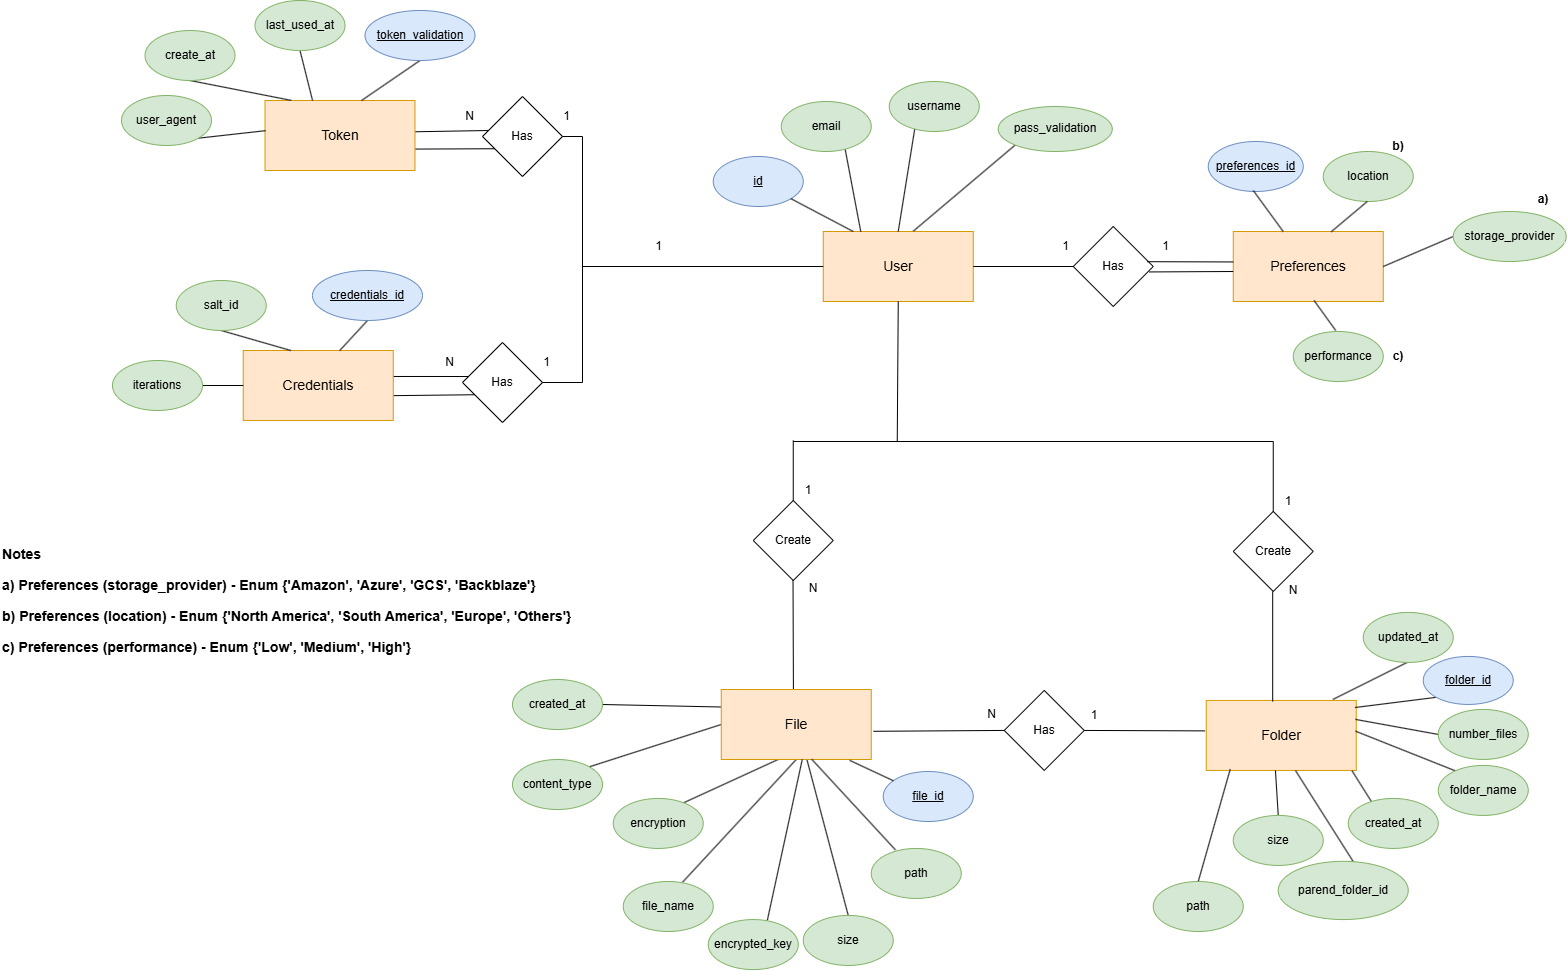
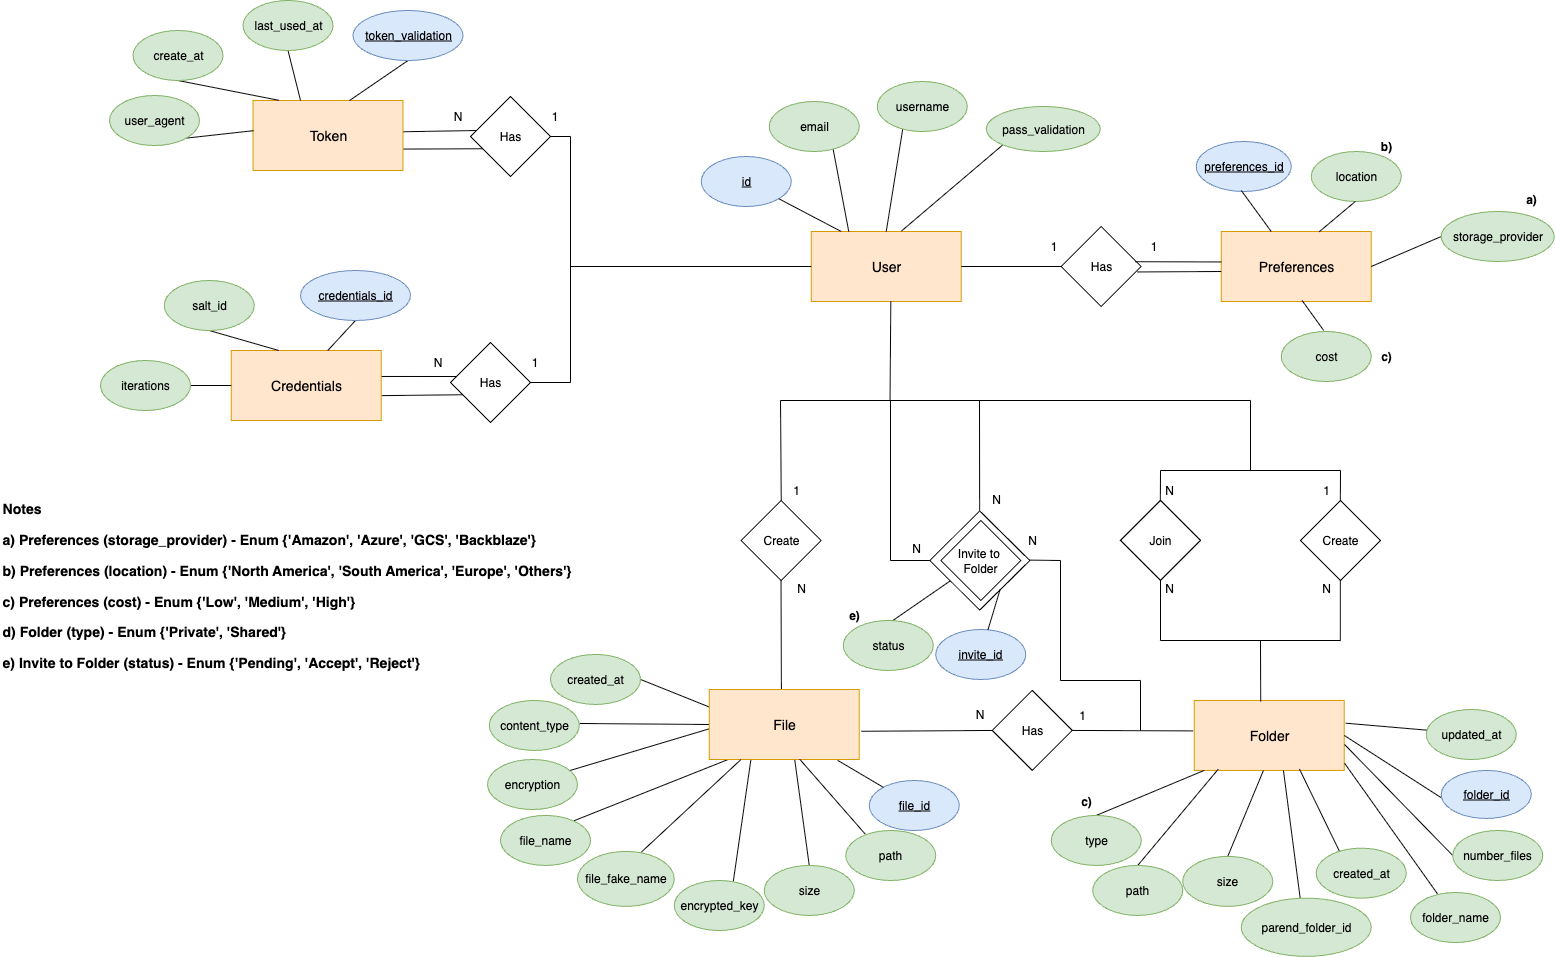
feat: enhance validation for ID parameters and update documentation

diff --git a/code/backend/multicloud-guardian/http/src/main/kotlin/pt/isel/leic/multicloudguardian/http/controllers/FoldersController.kt b/code/backend/multicloud-guardian/http/src/main/kotlin/pt/isel/leic/multicloudguardian/http/controllers/FoldersController.kt
@@ -1,5 +1,6 @@
 package pt.isel.leic.multicloudguardian.http.controllers
 
+import jakarta.validation.constraints.Min
 import org.springframework.http.HttpStatus
 import org.springframework.http.ResponseEntity
 import org.springframework.validation.annotation.Validated
@@ -49,6 +50,7 @@ import pt.isel.leic.multicloudguardian.service.storage.UploadFileError
 import pt.isel.leic.multicloudguardian.service.storage.ValidateFolderInviteError
 
 @RestController
+@Validated
 class FoldersController(
     private val storageService: StorageService,
 ) {
@@ -117,7 +119,7 @@ class FoldersController(
     @PostMapping(Uris.Folders.CREATE_FOLDER_IN_FOLDER)
     fun createFolderInFolder(
         @Validated @RequestBody input: FolderCreateInputModel,
-        @PathVariable folderId: Int,
+        @PathVariable @Min(1, message = Uris.ValidationMessages.ID_MUST_BE_POSITIVE) folderId: Int,
         authenticatedUser: AuthenticatedUser,
     ): ResponseEntity<*> {
         val instance = Uris.Folders.createFolderInFolder(folderId)
@@ -156,7 +158,7 @@ class FoldersController(
 
     @GetMapping(Uris.Folders.GET_FOLDER_BY_ID)
     fun getFolder(
-        @PathVariable @Validated folderId: Int,
+        @PathVariable @Min(1, message = Uris.ValidationMessages.ID_MUST_BE_POSITIVE) folderId: Int,
         authenticatedUser: AuthenticatedUser,
     ): ResponseEntity<*> {
         val instance = Uris.Folders.folderById(folderId)
@@ -176,7 +178,7 @@ class FoldersController(
 
     @GetMapping(Uris.Folders.GET_FOLDERS_IN_FOLDER)
     fun getFoldersInFolder(
-        @PathVariable @Validated folderId: Int,
+        @PathVariable @Min(1, message = Uris.ValidationMessages.ID_MUST_BE_POSITIVE) folderId: Int,
         authenticatedUser: AuthenticatedUser,
         @RequestParam(required = false) size: Int?,
         @RequestParam(required = false) page: Int?,
@@ -213,7 +215,7 @@ class FoldersController(
 
     @GetMapping(Uris.Folders.GET_FILES_IN_FOLDER)
     fun getFilesInFolder(
-        @PathVariable @Validated folderId: Int,
+        @PathVariable @Min(1, message = Uris.ValidationMessages.ID_MUST_BE_POSITIVE) folderId: Int,
         authenticatedUser: AuthenticatedUser,
         @RequestParam(required = false) size: Int?,
         @RequestParam(required = false) page: Int?,
@@ -251,8 +253,8 @@ class FoldersController(
 
     @GetMapping(Uris.Folders.GET_FILE_IN_FOLDER)
     fun getFileInFolder(
-        @PathVariable @Validated folderId: Int,
-        @PathVariable @Validated fileId: Int,
+        @PathVariable @Min(1, message = Uris.ValidationMessages.ID_MUST_BE_POSITIVE) folderId: Int,
+        @PathVariable @Min(1, message = Uris.ValidationMessages.ID_MUST_BE_POSITIVE) fileId: Int,
         authenticatedUser: AuthenticatedUser,
     ): ResponseEntity<*> {
         val instance = Uris.Folders.fileInFolder(folderId, fileId)
@@ -333,8 +335,8 @@ class FoldersController(
 
     @GetMapping(Uris.Folders.DOWNLOAD_FILE_IN_FOLDER)
     fun downloadFileInFolder(
-        @Validated @PathVariable folderId: Int,
-        @Validated @PathVariable fileId: Int,
+        @PathVariable @Min(1, message = Uris.ValidationMessages.ID_MUST_BE_POSITIVE) folderId: Int,
+        @PathVariable @Min(1, message = Uris.ValidationMessages.ID_MUST_BE_POSITIVE) fileId: Int,
         authenticatedUser: AuthenticatedUser,
     ): ResponseEntity<*> {
         val instance = Uris.Folders.downloadFileInFolder(folderId, fileId)
@@ -372,7 +374,7 @@ class FoldersController(
 
     @DeleteMapping(Uris.Folders.DELETE_FOLDER)
     fun deleteFolder(
-        @PathVariable @Validated folderId: Int,
+        @PathVariable @Min(1, message = Uris.ValidationMessages.ID_MUST_BE_POSITIVE) folderId: Int,
         authenticatedUser: AuthenticatedUser,
     ): ResponseEntity<*> {
         val instance = Uris.Folders.deleteFolder(folderId)
@@ -398,8 +400,8 @@ class FoldersController(
 
     @DeleteMapping(Uris.Folders.DELETE_FILE_IN_FOLDER)
     fun deleteFileInFolder(
-        @PathVariable @Validated folderId: Int,
-        @PathVariable @Validated fileId: Int,
+        @PathVariable @Min(1, message = Uris.ValidationMessages.ID_MUST_BE_POSITIVE) folderId: Int,
+        @PathVariable @Min(1, message = Uris.ValidationMessages.ID_MUST_BE_POSITIVE) fileId: Int,
         authenticatedUser: AuthenticatedUser,
     ): ResponseEntity<*> {
         val instance = Uris.Folders.deleteFileInFolder(folderId, fileId)
@@ -426,7 +428,7 @@ class FoldersController(
 
     @PostMapping(Uris.Folders.CREATE_INVITE_FOLDER)
     fun inviteFolder(
-        @PathVariable @Validated folderId: Int,
+        @PathVariable @Min(1, message = Uris.ValidationMessages.ID_MUST_BE_POSITIVE) folderId: Int,
         @RequestBody input: FolderInviteInput,
         authenticatedUser: AuthenticatedUser,
     ): ResponseEntity<*> {
@@ -452,8 +454,8 @@ class FoldersController(
 
     @PostMapping(Uris.Folders.VALIDATE_FOLDER_INVITE)
     fun validateFolderInvite(
-        @PathVariable @Validated folderId: Int,
-        @PathVariable @Validated inviteId: Int,
+        @PathVariable @Min(1, message = Uris.ValidationMessages.ID_MUST_BE_POSITIVE) folderId: Int,
+        @PathVariable @Min(1, message = Uris.ValidationMessages.ID_MUST_BE_POSITIVE) inviteId: Int,
         @RequestBody input: FolderInviteStatusInputModel,
         authenticatedUser: AuthenticatedUser,
     ): ResponseEntity<*> {
@@ -543,7 +545,7 @@ class FoldersController(
 
     @PostMapping(Uris.Folders.LEAVE_SHARED_FOLDER)
     fun leaveFolder(
-        @PathVariable @Validated folderId: Int,
+        @PathVariable @Min(1, message = Uris.ValidationMessages.ID_MUST_BE_POSITIVE) folderId: Int,
         authenticatedUser: AuthenticatedUser,
     ): ResponseEntity<*> {
         val instance = Uris.Folders.leaveFolder(folderId)

diff --git a/code/backend/multicloud-guardian/http/src/main/kotlin/pt/isel/leic/multicloudguardian/http/controllers/FilesController.kt b/code/backend/multicloud-guardian/http/src/main/kotlin/pt/isel/leic/multicloudguardian/http/controllers/FilesController.kt
@@ -1,5 +1,6 @@
 package pt.isel.leic.multicloudguardian.http.controllers
 
+import jakarta.validation.constraints.Min
 import org.springframework.http.HttpStatus
 import org.springframework.http.ResponseEntity
 import org.springframework.validation.annotation.Validated
@@ -36,6 +37,7 @@ import pt.isel.leic.multicloudguardian.service.storage.StorageService
 import pt.isel.leic.multicloudguardian.service.storage.UploadFileError
 
 @RestController
+@Validated
 class FilesController(
     private val storageService: StorageService,
 ) {
@@ -130,7 +132,7 @@ class FilesController(
 
     @GetMapping(Uris.Files.GET_BY_ID)
     fun getFileById(
-        @Validated @PathVariable fileId: Int,
+        @PathVariable @Min(1, message = Uris.ValidationMessages.ID_MUST_BE_POSITIVE) fileId: Int,
         authenticatedUser: AuthenticatedUser,
     ): ResponseEntity<*> {
         val instance = Uris.Files.byId(fileId)
@@ -150,7 +152,7 @@ class FilesController(
 
     @PostMapping(Uris.Files.CREATE_URL)
     fun generateTemporaryFileUrl(
-        @Validated @PathVariable fileId: Int,
+        @PathVariable @Min(1, message = Uris.ValidationMessages.ID_MUST_BE_POSITIVE) fileId: Int,
         @RequestBody input: GenerateTempUrlInputModel,
         authenticatedUser: AuthenticatedUser,
     ): ResponseEntity<*> {
@@ -176,7 +178,7 @@ class FilesController(
 
     @PatchMapping(Uris.Files.MOVE_FILE)
     fun moveFile(
-        @Validated @PathVariable fileId: Int,
+        @PathVariable @Min(1, message = Uris.ValidationMessages.ID_MUST_BE_POSITIVE) fileId: Int,
         @RequestBody input: MoveFileInputModel,
         authenticatedUser: AuthenticatedUser,
     ): ResponseEntity<*> {
@@ -203,7 +205,7 @@ class FilesController(
 
     @GetMapping(Uris.Files.DOWNLOAD_FILE)
     fun downloadFile(
-        @Validated @PathVariable fileId: Int,
+        @PathVariable @Min(1, message = Uris.ValidationMessages.ID_MUST_BE_POSITIVE) fileId: Int,
         authenticatedUser: AuthenticatedUser,
     ): ResponseEntity<*> {
         val instance = Uris.Files.downloadFile(fileId)
@@ -240,7 +242,7 @@ class FilesController(
 
     @DeleteMapping(Uris.Files.DELETE)
     fun deleteFile(
-        @Validated @PathVariable fileId: Int,
+        @PathVariable @Min(1, message = Uris.ValidationMessages.ID_MUST_BE_POSITIVE) fileId: Int,
         authenticatedUser: AuthenticatedUser,
     ): ResponseEntity<*> {
         val instance = Uris.Files.deleteFile(fileId)

diff --git a/code/backend/multicloud-guardian/http/src/main/kotlin/pt/isel/leic/multicloudguardian/http/util/CustomExceptionHandler.kt b/code/backend/multicloud-guardian/http/src/main/kotlin/pt/isel/leic/multicloudguardian/http/util/CustomExceptionHandler.kt
@@ -1,5 +1,6 @@
 package pt.isel.leic.multicloudguardian.http.util
 
+import jakarta.validation.ConstraintViolationException
 import org.slf4j.LoggerFactory
 import org.springframework.http.HttpHeaders
 import org.springframework.http.HttpStatus
@@ -34,6 +35,13 @@ class CustomExceptionHandler : ResponseEntityExceptionHandler() {
     ): ResponseEntity<Any> {
         log.info("Handling HttpMessageNotReadableException: {}", ex.message)
         return Problem.response(HttpStatus.BAD_REQUEST.value(), Problem.invalidRequestContent())
+    }
+
+    @ExceptionHandler(ConstraintViolationException::class)
+    fun handleConstraintViolation(ex: ConstraintViolationException): ResponseEntity<Any> {
+        log.info("Handling ConstraintViolationException: {}", ex.message)
+        val errorMessages = ex.constraintViolations.mapNotNull { it.message }
+        return Problem.response(HttpStatus.BAD_REQUEST.value(), Problem.invalidRequestContent(errorMessages))
     }
 
     @ExceptionHandler(Exception::class)

diff --git a/code/backend/multicloud-guardian/http/src/main/kotlin/pt/isel/leic/multicloudguardian/http/model/user/UserCreateInputModel.kt b/code/backend/multicloud-guardian/http/src/main/kotlin/pt/isel/leic/multicloudguardian/http/model/user/UserCreateInputModel.kt
@@ -2,6 +2,7 @@ package pt.isel.leic.multicloudguardian.http.model.user
 
 import jakarta.validation.constraints.NotBlank
 import jakarta.validation.constraints.NotNull
+import jakarta.validation.constraints.Pattern
 import jakarta.validation.constraints.Size
 import pt.isel.leic.multicloudguardian.domain.preferences.CostType
 import pt.isel.leic.multicloudguardian.domain.preferences.LocationType
@@ -14,6 +15,10 @@ data class UserCreateInputModel(
         min = Username.MIN_LENGTH,
         max = Username.MAX_LENGTH,
         message = "Username must have between ${Username.MIN_LENGTH} and ${Username.MAX_LENGTH} characters",
+    )
+    @field:Pattern(
+        regexp = "^[a-zA-Z0-9._-]+$",
+        message = "Username can only contain letters, numbers, '.', '-' and '_'",
     )
     val username: String,
     @field:NotBlank(message = "Email must not be blank")

diff --git a/code/backend/multicloud-guardian/http/src/main/kotlin/pt/isel/leic/multicloudguardian/http/controllers/UsersController.kt b/code/backend/multicloud-guardian/http/src/main/kotlin/pt/isel/leic/multicloudguardian/http/controllers/UsersController.kt
@@ -1,5 +1,6 @@
 package pt.isel.leic.multicloudguardian.http.controllers
 
+import jakarta.validation.constraints.Min
 import kotlinx.datetime.Clock
 import org.springframework.http.HttpStatus
 import org.springframework.http.ResponseEntity
@@ -37,6 +38,7 @@ import pt.isel.leic.multicloudguardian.service.user.UsersService
 import java.util.concurrent.TimeUnit
 
 @RestController
+@Validated
 class UsersController(
     private val userService: UsersService,
     private val sseService: SSEService,
@@ -175,7 +177,7 @@ class UsersController(
 
     @GetMapping(Uris.Users.GET_BY_ID)
     fun getById(
-        @PathVariable id: Int,
+        @PathVariable @Min(1, message = Uris.ValidationMessages.ID_MUST_BE_POSITIVE) id: Int,
         authenticatedUser: AuthenticatedUser,
     ): ResponseEntity<*> {
         val instance = Uris.Users.byId(id)

diff --git a/code/frontend/services/utils/HttpService.ts b/code/frontend/services/utils/HttpService.ts
@@ -1,11 +1,11 @@
 import { useAuthentication } from "@/context/AuthProvider";
 import { MEDIA_TYPE_PROBLEM, Problem } from "../media/Problem";
 
-const LOCAL_IP = "192.168.1.11";
-const PORT = "8088";
+const LOCAL_IP = "192.168.1.7";
+const PORT = "8080";
 
 export const PREFIX_API = `http://${LOCAL_IP}:${PORT}/api`; // Dev Mode
-//export const PREFIX_API = process.env.EXPO_PUBLIC_APP;
+//export const PREFIX_API = `${process.env.EXPO_PUBLIC_APP}/api;
 
 export const apiRoutes = {
   // Users

diff --git a/code/backend/multicloud-guardian/http/src/main/kotlin/pt/isel/leic/multicloudguardian/http/Uris.kt b/code/backend/multicloud-guardian/http/src/main/kotlin/pt/isel/leic/multicloudguardian/http/Uris.kt
@@ -9,6 +9,10 @@ object Uris {
 
     fun home(): URI = URI(HOME)
 
+    object ValidationMessages {
+        const val ID_MUST_BE_POSITIVE = "The provided ID must be greater than 0."
+    }
+
     object Users {
         const val CREATE = "$PREFIX/users"
         const val TOKEN = "$PREFIX/users/token"

diff --git a/code/backend/docs/backend-impl.md b/code/backend/docs/backend-impl.md
@@ -1,4 +1,4 @@
-# <image src ="../docs/images/cloud.jpg" width=60> Multi Cloud Guardian - Backend Documentation
+#  Multi Cloud Guardian - Backend Documentation
 
 > This is the backend documentation for the Multi Cloud Guardian.
 
@@ -72,7 +72,7 @@ The conceptual model has the following restrictions:
 - `Preferences` entity:
 
   - The `location` attribute only accepts values: `0` (North America), `1` (South America), `2` (Europe), `3` (Others);
-  - The `performance` attribute only accepts values: `0` (Low), `1` (Medium), `2` (High);
+  - The `cost` attribute only accepts values: `0` (Low), `1` (Medium), `2` (High);
   - The `storage_provider` attribute only accepts values: `0` (Amazon), `1` (Azure), `2` (Google Cloud Storage), `3` (Backblaze);
   - Each user has exactly one set of preferences (1:1 relationship).
 
@@ -86,7 +86,7 @@ The conceptual model has the following restrictions:
   - The `path` attribute stores the path associated with the folder on the cloud storage provider.
 
 - `File` entity:
-  - The `file_name` attribute stores the name of the file;
+  - The `file_name` and `file_fake_name` attribute stores the name of the file;
   - The `size` attribute represents the file size in bytes;
   - The `created_at` attribute represents the number of seconds since the [Unix epoch](https://en.wikipedia.org/wiki/Unix_time), and must be greater than 0;
   - The `encryption` attribute is a boolean that indicates whether the file is encrypted;
@@ -94,6 +94,12 @@ The conceptual model has the following restrictions:
   - The `content_type` attribute stores the MIME type of the file (e.g., `image/png`, `application/pdf`);
   - The `path` attribute stores the full storage path of the file on the cloud provider, associated with its folder;
   - Files are automatically categorized in the `user_file_storage_summary` view into one of the following types, based on their `content_type`: Images, Video, Documents, or Others.
+
+- `Join_Folders` entity:
+  - This junction entity manages user access to shared folders.
+    - Composite primary key of user_id (foreign key to Users) and folder_id (foreign key to Folders), both with cascade on delete and update. 
+    - Triggers insert owners or new members into this table for shared folders. 
+    - Deleting from this table triggers removal of previous invitations and user files from the shared folder.
 
 ### Key Relationships
 
@@ -128,9 +134,9 @@ We highlight the following aspects of this model:
 
 ### Application Architecture
 
-| ![Application Architecture](../docs/images/software_%20architect_white.png) |
-| :-------------------------------------------------------------------------: |
-|                     _Application architecture diagram_                      |
+| ![Application Architecture](../docs/images/software_%20architect_white.png.png) |
+|:---------------------------------------------:|
+|      _Application architecture diagram_       |
 
 The JVM application is organized as follows:
 
@@ -313,6 +319,10 @@ In the backend infrastructure, data validation is enforced at two distinct layer
         max = Username.MAX_LENGTH,
         message = "Username must have between ${Username.MIN_LENGTH} and ${Username.MAX_LENGTH} characters",
     )
+    @field:Pattern(
+        regexp = "^[a-zA-Z0-9._-]+$",
+        message = "Username can only contain letters, numbers, '.', '-' and '_'",
+    )
     val username: String,
     @field:NotBlank(message = "Email must not be blank")
     @field:jakarta.validation.constraints.Email(message = "Email must be valid")
@@ -328,9 +338,10 @@ In the backend infrastructure, data validation is enforced at two distinct layer
     val salt: String,
     @field:NotNull(message = "Iterations must not be null")
     val iterations: Int,
-    val costType: PerformanceType,
+    val costType: CostType,
     val locationType: LocationType,
-  )
+  ) 
+  
 
 
   // In the controller handler method, the request body is
